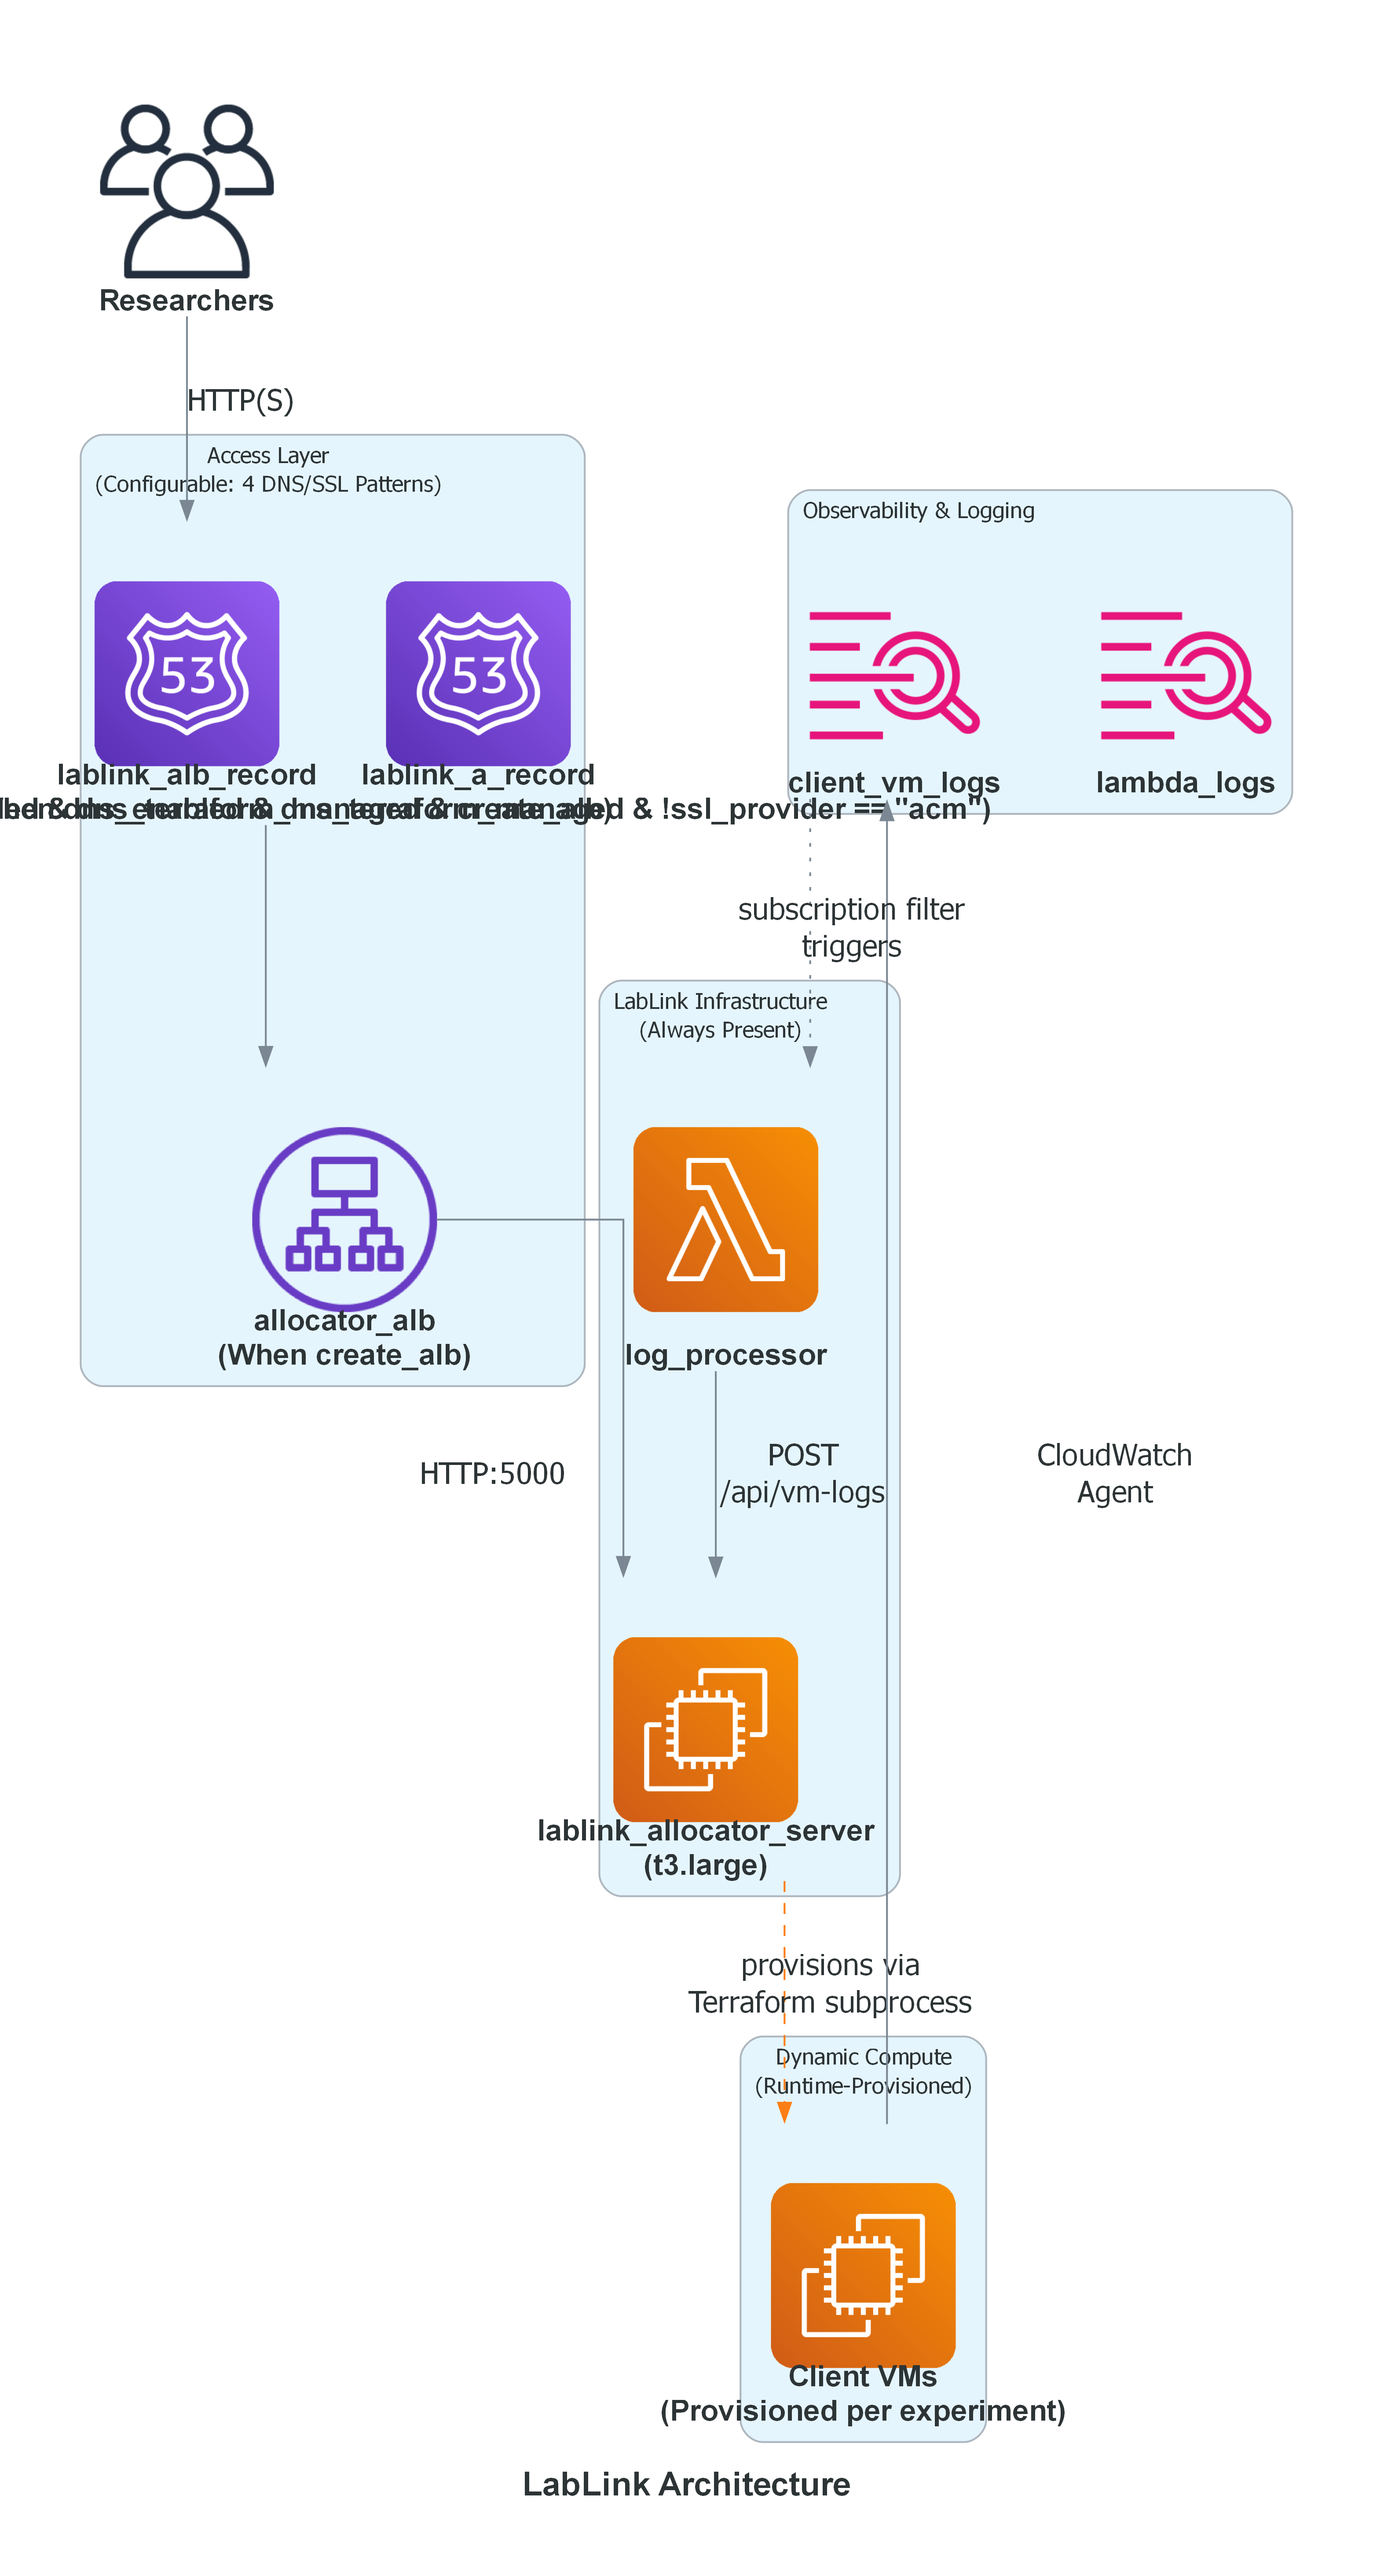
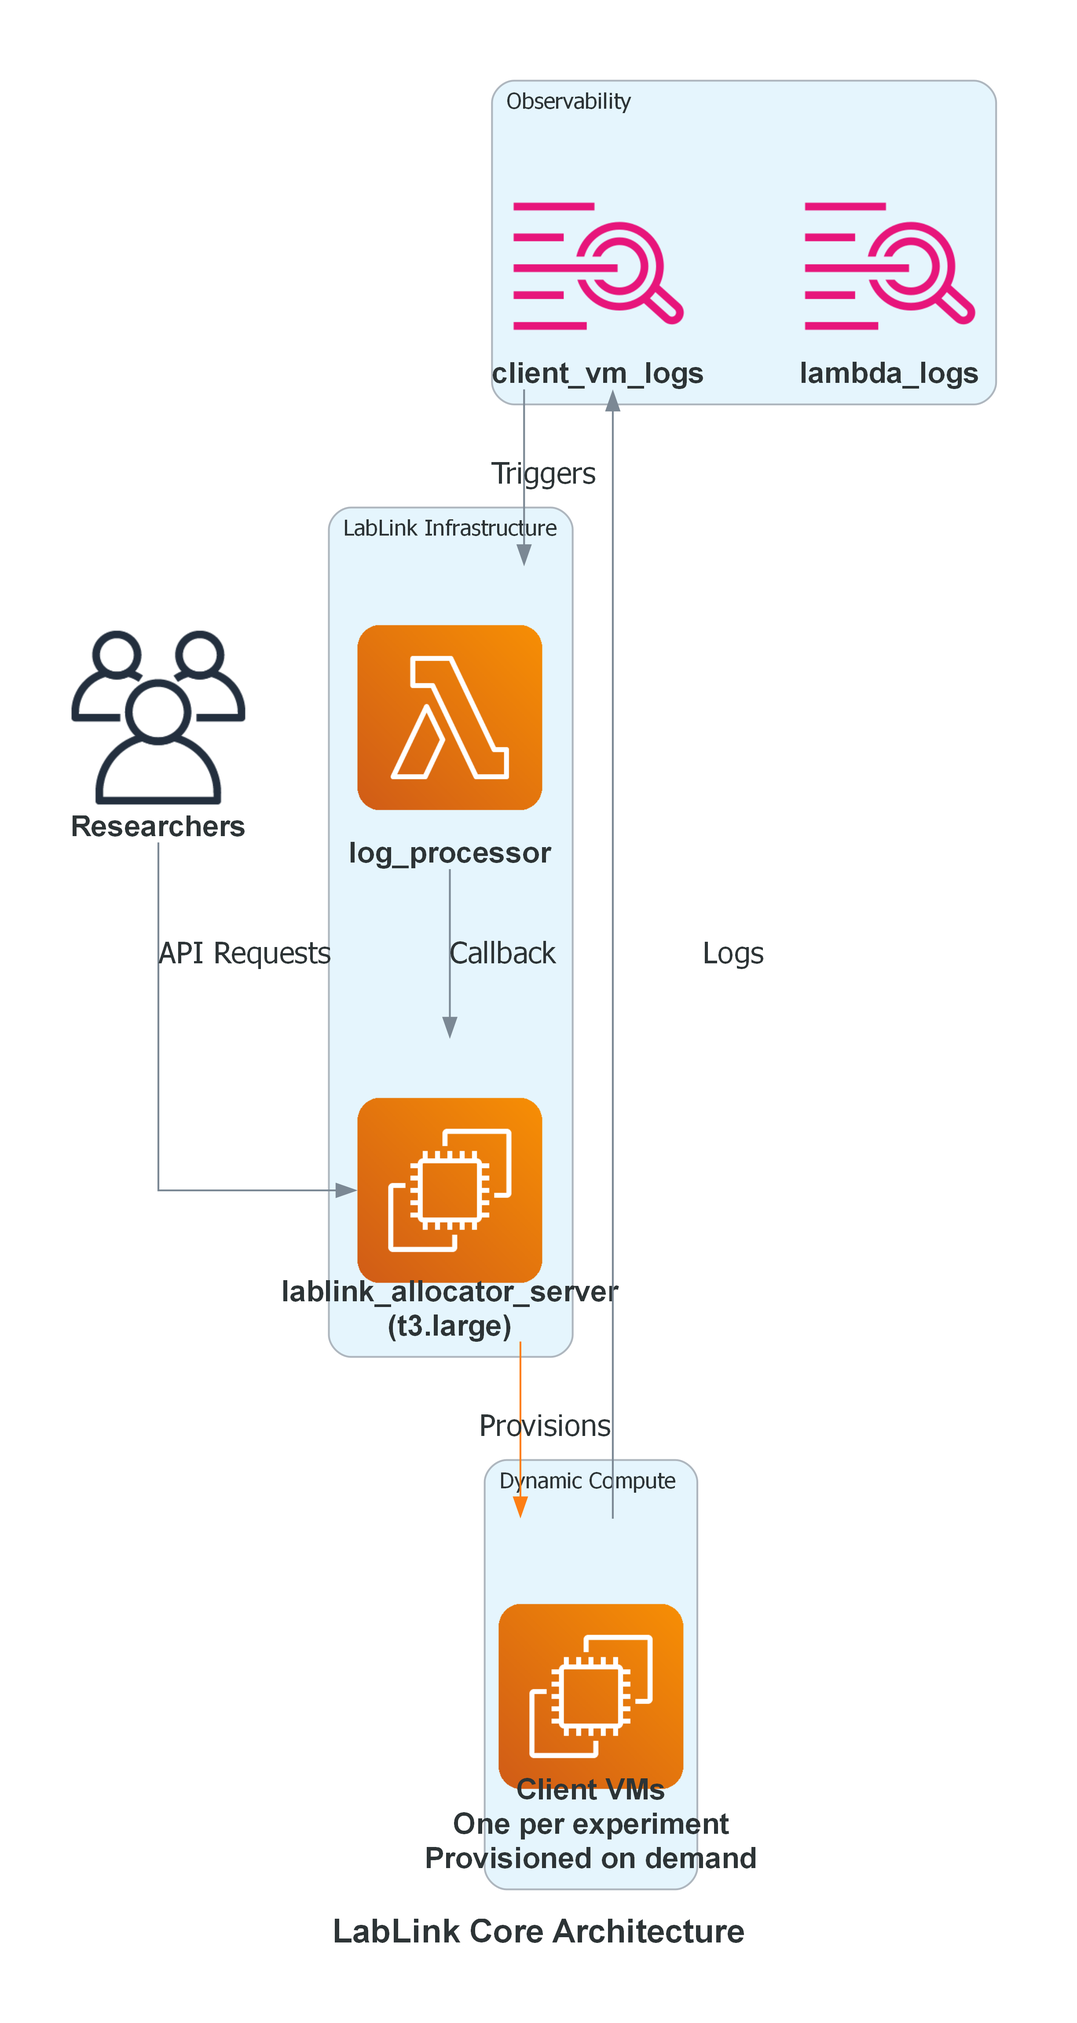
Simplify main diagram: Remove cluttered access layer
User feedback identified issues with current main diagram:
1. Access layer text too cluttered with configuration options
2. Lambda/IAM floating without clear integration
3. Arrows sometimes bent/disconnected (Diagrams library limitation)
4. Network flow diagram unclear

Solution: Simplified main diagram
- Removed access layer entirely from main diagram
- 3 clean clusters: Infrastructure, Dynamic Compute, Observability
- Straight, simple arrows with clear labels
- Lambda now properly integrated in Observability cluster
- Allocator shows tech stack (Flask, PostgreSQL, t3.large)
- All flows are linear and easy to follow

Next steps:
- Create 4 separate access pattern diagrams (one per DNS/SSL config)
- Create dedicated logging flow diagram
- Keep detailed diagram for supplementary material

This makes the main diagram much cleaner for paper figures.

🤖 Generated with [Claude Code](https://claude.com/claude-code)

diff --git a/src/diagram_gen/generator.py b/src/diagram_gen/generator.py
@@ -181,7 +181,7 @@ class LabLinkDiagramBuilder:
         }
 
         with Diagram(
-            "LabLink Architecture",
+            "LabLink Core Architecture",
             filename=str(output_path),
             outformat=format,
             show=False,
@@ -190,92 +190,47 @@ class LabLinkDiagramBuilder:
             edge_attr=edge_attr,
             node_attr=node_attr,
         ):
-            # External users (outside clusters)
+            # External access (simple, no access layer details)
             users = Users("Researchers")
 
-            # Cluster 1: Access Layer (Configurable) - DNS/SSL with 4 patterns
-            with Cluster("Access Layer\n(Configurable: 4 DNS/SSL Patterns)"):
-                dns_components = self._create_network_components()
-
-                # Check what's actually configured
-                has_route53 = len([k for k in dns_components.keys() if k.startswith("r53_")]) > 0
-                has_alb = len([k for k in dns_components.keys() if k.startswith("alb_")]) > 0
-
-                if has_route53 or has_alb:
-                    # Show actual configuration with annotations
-                    if has_route53:
-                        route53 = (
-                            dns_components.get("r53_lablink_alb_record")
-                            or dns_components.get("r53_lablink_a_record")
-                            or dns_components.get("r53_allocator_dns")
-                            or next((v for k, v in dns_components.items() if k.startswith("r53_")), Route53("Route53\nDNS"))
-                        )
-                    if has_alb:
-                        alb = dns_components.get("alb_allocator_alb") or ALB("ALB\n(ACM SSL)")
-                else:
-                    # Fallback: show it's configurable
-                    route53 = Route53("DNS\n(Optional)")
-                    alb = None
-
-            # Cluster 2: LabLink Infrastructure - Core allocator service
-            with Cluster("LabLink Infrastructure\n(Always Present)"):
+            # Cluster 1: LabLink Infrastructure
+            with Cluster("LabLink Infrastructure"):
                 compute_components = self._create_compute_components()
-                # Get allocator EC2 instance
                 allocator = (
                     compute_components.get("ec2_lablink_allocator_server")
                     or compute_components.get("ec2_allocator_server")
-                    or EC2("Allocator\nServer")
+                    or EC2("Allocator Server\nFlask API\nPostgreSQL\nt3.large")
                 )
 
-            # Cluster 3: Dynamic Compute - Runtime-provisioned client VMs
-            with Cluster("Dynamic Compute\n(Runtime-Provisioned)"):
-                # Client VMs - these are provisioned by allocator via Terraform subprocess
-                client_vm = EC2("Client VMs\n(Provisioned per experiment)")
+            # Cluster 2: Dynamic Compute
+            with Cluster("Dynamic Compute"):
+                client_vm = EC2("Client VMs\nOne per experiment\nProvisioned on demand")
 
-            # Cluster 4: Observability & Logging
-            with Cluster("Observability & Logging"):
+            # Cluster 3: Observability
+            with Cluster("Observability"):
                 obs_components = self._create_observability_components()
                 cloudwatch = (
                     obs_components.get("cw_client_vm_logs")
                     or obs_components.get("cw_lambda_logs")
                     or obs_components.get("cw_client_logs")
-                    or CloudwatchLogs("CloudWatch\nLogs")
+                    or CloudwatchLogs("CloudWatch Logs")
                 )
 
-                # Lambda log processor
                 log_processor = (
                     compute_components.get("lambda_log_processor")
-                    or Lambda("Log\nProcessor")
+                    or Lambda("Log Processor")
                 )
 
-            # Define request flow through access layer
-            users >> Edge(label="HTTP(S)", fontsize="16") >> route53
+            # Simple, clean flows
+            users >> Edge(label="API Requests", fontsize="16") >> allocator
 
-            if has_alb and alb:
-                route53 >> alb
-                alb >> Edge(label="HTTP:5000", fontsize="16") >> allocator
-            else:
-                route53 >> Edge(label="HTTP(S):5000", fontsize="16") >> allocator
+            allocator >> Edge(label="Provisions", fontsize="16", color="#fd7e14") >> client_vm
 
-            # Runtime provisioning flow: Allocator provisions client VMs
-            allocator >> Edge(
-                label="provisions via\nTerraform subprocess",
-                style="dashed",
-                fontsize="16",
-                color="#fd7e14"  # Orange for runtime provisioning
-            ) >> client_vm
+            client_vm >> Edge(label="Logs", fontsize="16") >> cloudwatch
 
-            # Logging flow: Client VMs → CloudWatch → Lambda → Allocator
-            client_vm >> Edge(label="CloudWatch\nAgent", fontsize="16") >> cloudwatch
+            cloudwatch >> Edge(label="Triggers", fontsize="16") >> log_processor
 
-            # Subscription filter as edge (not node)
-            cloudwatch >> Edge(
-                label="subscription filter\ntriggers",
-                fontsize="16",
-                style="dotted"
-            ) >> log_processor
-
-            log_processor >> Edge(label="POST\n/api/vm-logs", fontsize="16") >> allocator
+            log_processor >> Edge(label="Callback", fontsize="16") >> allocator
 
     def build_detailed_diagram(self, output_path: Path, format: str = "png", dpi: int = 300):
         """
